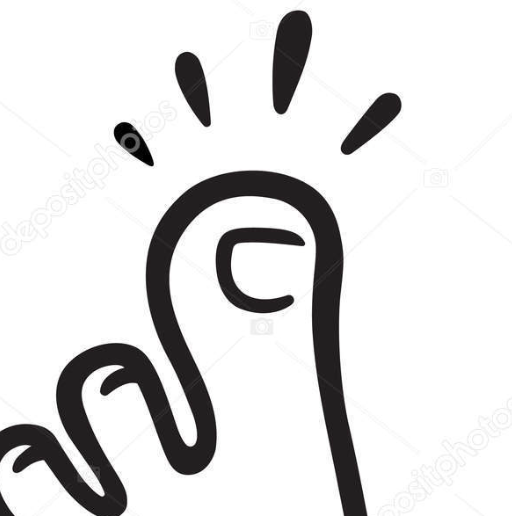
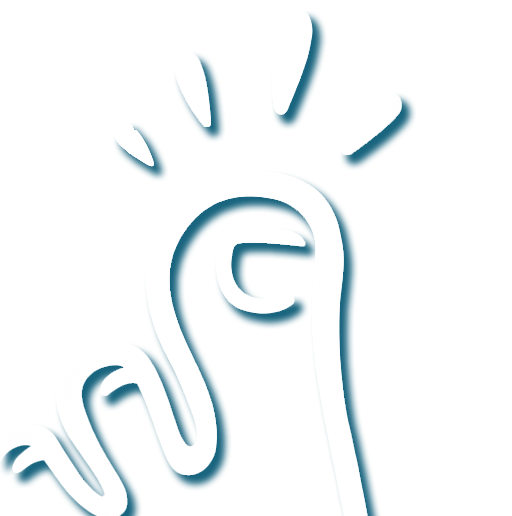
Style addings

diff --git a/assets/styles/index.scss b/assets/styles/index.scss
@@ -2,8 +2,8 @@
 
 $container-border-color: #5e5e5e;
 $container-bg-color: #367bd4;
-$body-bg-color: #163154;
-$box-border-color: #fff;
+$body-bg-color: rgba(10, 37, 46, 1);
+$box-border-color: rgba(244, 211, 94, 1);
 $square-dimensions: 100px;
 $caution-color: #f44;
 $hover-caution-color: #f77;
@@ -13,9 +13,9 @@ $button-border-color: #9e9e9e;
 $button-font-color: #ddd;
 $button-signup-color: #4952d4;
 $shadow-color: #234f87;
-$header-background-color: #234f87;
-$box-hover-color: #234f87;
-$game-board-bg-color: #367bd4;
+$header-background-color: rgba(40, 175, 176, 1);
+$box-hover-color: rgba(238, 150, 75, 1);
+$game-board-bg-color: rgba(217, 137, 69, 1);
 $player-menu-bg-color: rgba(35, 79, 135, .9);
 
 h1,
@@ -44,6 +44,8 @@ body {
   .navbar {
     border-radius: 0 0 10px 10px;
     background-color: $header-background-color;
+    text-shadow: 1px 1px 1px #19647E;
+    z-index: 100;
   }
 
   .footer {
@@ -58,6 +60,7 @@ body {
     position: fixed;
     width: 100%;
     max-width: 700px;
+    z-index: 100;
   }
 }
 
@@ -148,18 +151,17 @@ body {
   color: $box-border-color;
   cursor: pointer;
   display: flex;
-  font-family: fantasy;
-  font-size: 70px;
+  font-family: 'Indie Flower', fantasy;
+  font-size: 80px;
   height: 100px;
   justify-content: center;
   transition: .1s;
   width: 100px;
   z-index: 3;
 
-  .p {
-    height: 10px;
-    margin: auto;
-    width: 10px;
+  p {
+    transform: translateY(-10px);
+    text-shadow: 1px 1px 1px #AE6E37;
   }
 
   &:hover {
@@ -190,6 +192,12 @@ p,  {
   border-radius: 5px;
   height: 50px;
   width: auto;
+  transform: translateY(-10px)
+}
+
+.logo-span {
+  font-family: 'Shadows Into Light', cursive;
+  font-size: 50px;
 }
 
 .account-wrapper {
@@ -285,42 +293,35 @@ a {
   color: $button-font-color;
 }
 
-@media screen and (max-width: 770px) {
-  h1 {
-    font-size: 36px;
-  }
-
-  .header {
-    align-items: center;
-    flex-direction: column;
-    height: 160px;
-    justify-content: flex-start;
-  }
-
-  .logo-wrapper {
-    display: flex;
-    justify-content: center;
-  }
-
-  .auth-wrapper {
-    align-self: center;
-    display: flex;
-    justify-content: center;
-    position: relative;
-    right: 1%;
-    top: -80px;
-  }
-
-  .account-wrapper {
-    display: flex;
-    justify-content: center;
-  }
-
-}
+// @media screen and (max-width: 770px) {
+//   h1 {
+//     font-size: 36px;
+//   }
+//
+//   .logo-wrapper {
+//     display: flex;
+//     justify-content: center;
+//   }
+//
+//   .auth-wrapper {
+//     align-self: center;
+//     display: flex;
+//     justify-content: center;
+//     position: relative;
+//     right: 1%;
+//     top: -80px;
+//   }
+//
+//   .account-wrapper {
+//     display: flex;
+//     justify-content: center;
+//   }
+//
+// }
 
 @media screen and (max-width: 330px) {
-  .header {
-    height: 230px;
+  .message > p {
+    font-size: 12px;
   }
 
   .sign-in-wrapper {
@@ -328,15 +329,25 @@ a {
     flex-direction: column;
   }
 
+  .logo-span{
+    font-size: 30px;
+  }
+
+  .player-menu,
   .game-board {
-    height: 210px;
-    width: 210px;
+    height: 250px;
+    width: 250px;
   }
 
   .box {
     font-size: $square-dimensions * .5;
-    height: 70px;
-    width: 70px;
+    height: calc(250px/3);
+    width: calc(250px/3);
+  }
+
+  .message {
+    margin: 0;
+    padding: 0;
   }
 }
 
@@ -345,11 +356,21 @@ a {
     height: 230px;
   }
 
+  .message {
+    margin: 0;
+    padding: 0;
+  }
+
+  .logo-span{
+    font-size: 30px;
+  }
+
   .sign-in-wrapper {
     display: flex;
     flex-direction: column;
   }
 
+  .player-menu,
   .game-board {
     height: 180px;
     width: 180px;

diff --git a/index.html b/index.html
@@ -5,13 +5,15 @@
       <meta name="viewport" content="width=device-width, initial-scale=1">
       <link rel="shortcut icon" type="image/x-icon" href="favicon.ico">
       <link href="https://fonts.googleapis.com/css?family=Roboto+Mono" rel="stylesheet">
+      <link href="https://fonts.googleapis.com/css?family=Shadows+Into+Light" rel="stylesheet">
+      <link href="https://fonts.googleapis.com/css?family=Indie+Flower" rel="stylesheet">
       <script src="public/vendor.js" type="text/javascript" charset="utf-8" defer></script>
       <script src="public/application.js" type="text/javascript" charset="utf-8" defer></script>
     </head>
     <body>
       <h2 id="orientation-alert">Please hold your device vertically.</h2>
       <nav class="navbar navbar-dark shadow-lg">
-        <h1 class="logo-text navbar-brand"><span class="logo-span">TIC TAC "<img class="logo" src="./public/images/toe.png" alt="A toe image"/>"</span> </h1>
+        <h1 class="logo-text navbar-brand"><span class="logo-span">Tic Tac <img class="logo" src="./public/images/toe.png" alt="A toe image"/></span> </h1>
         <button class="navbar-toggler" type="button" data-toggle="collapse" data-target="#authCollapsible" aria-controls="authCollapsible" aria-expanded="false" aria-label="Toggle navigation">
           <span class="navbar-toggler-icon"></span>
         </button>
@@ -40,11 +42,11 @@
         </div>
       </nav>
 
-        <p id="user-info" class="user-info"></p>
-        <div class="message-wrapper">
+        <p id="user-info" class="user-info message"></p>
+        <div class="message-wrapper message">
           <div id="message" class="message"></div>
-          <div id="message-game-info" class="message-game-info"></div>
-          <div id="message-game" class="message-game"></div>
+          <div id="message-game-info" class="message-game-info message"></div>
+          <div id="message-game" class="message-game message"></div>
         </div>
 
         <div class="main">
